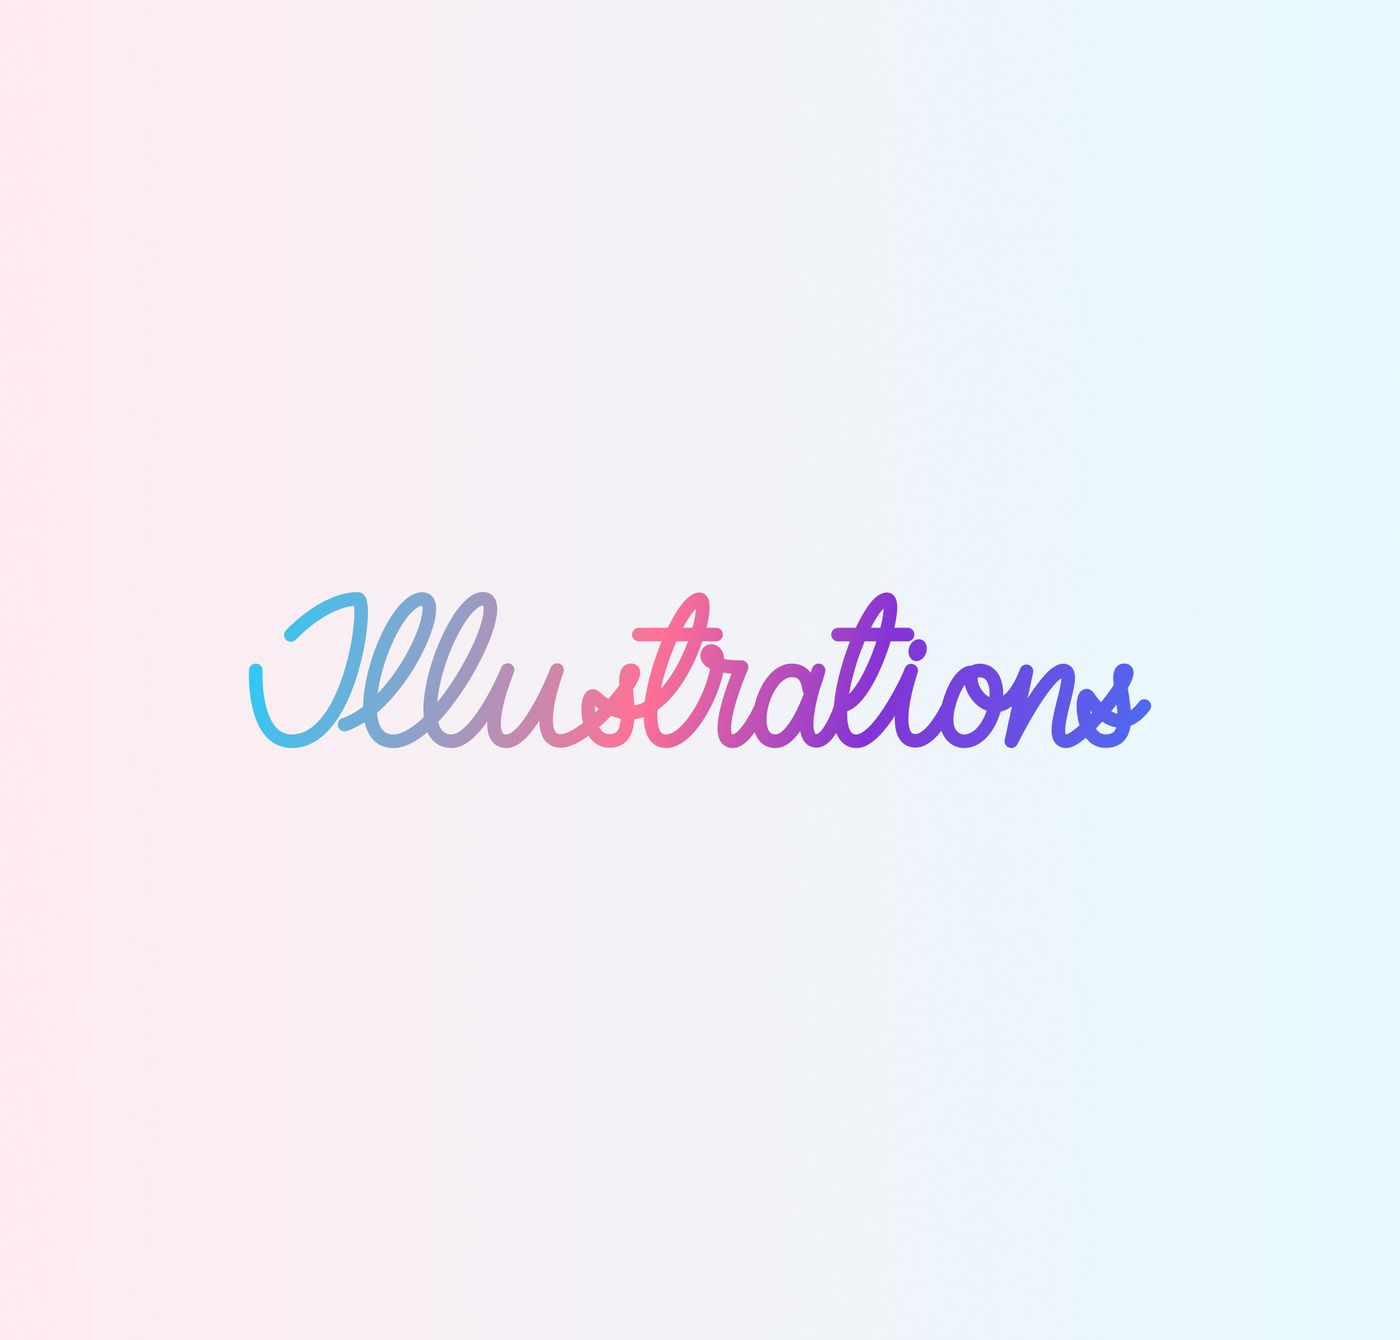
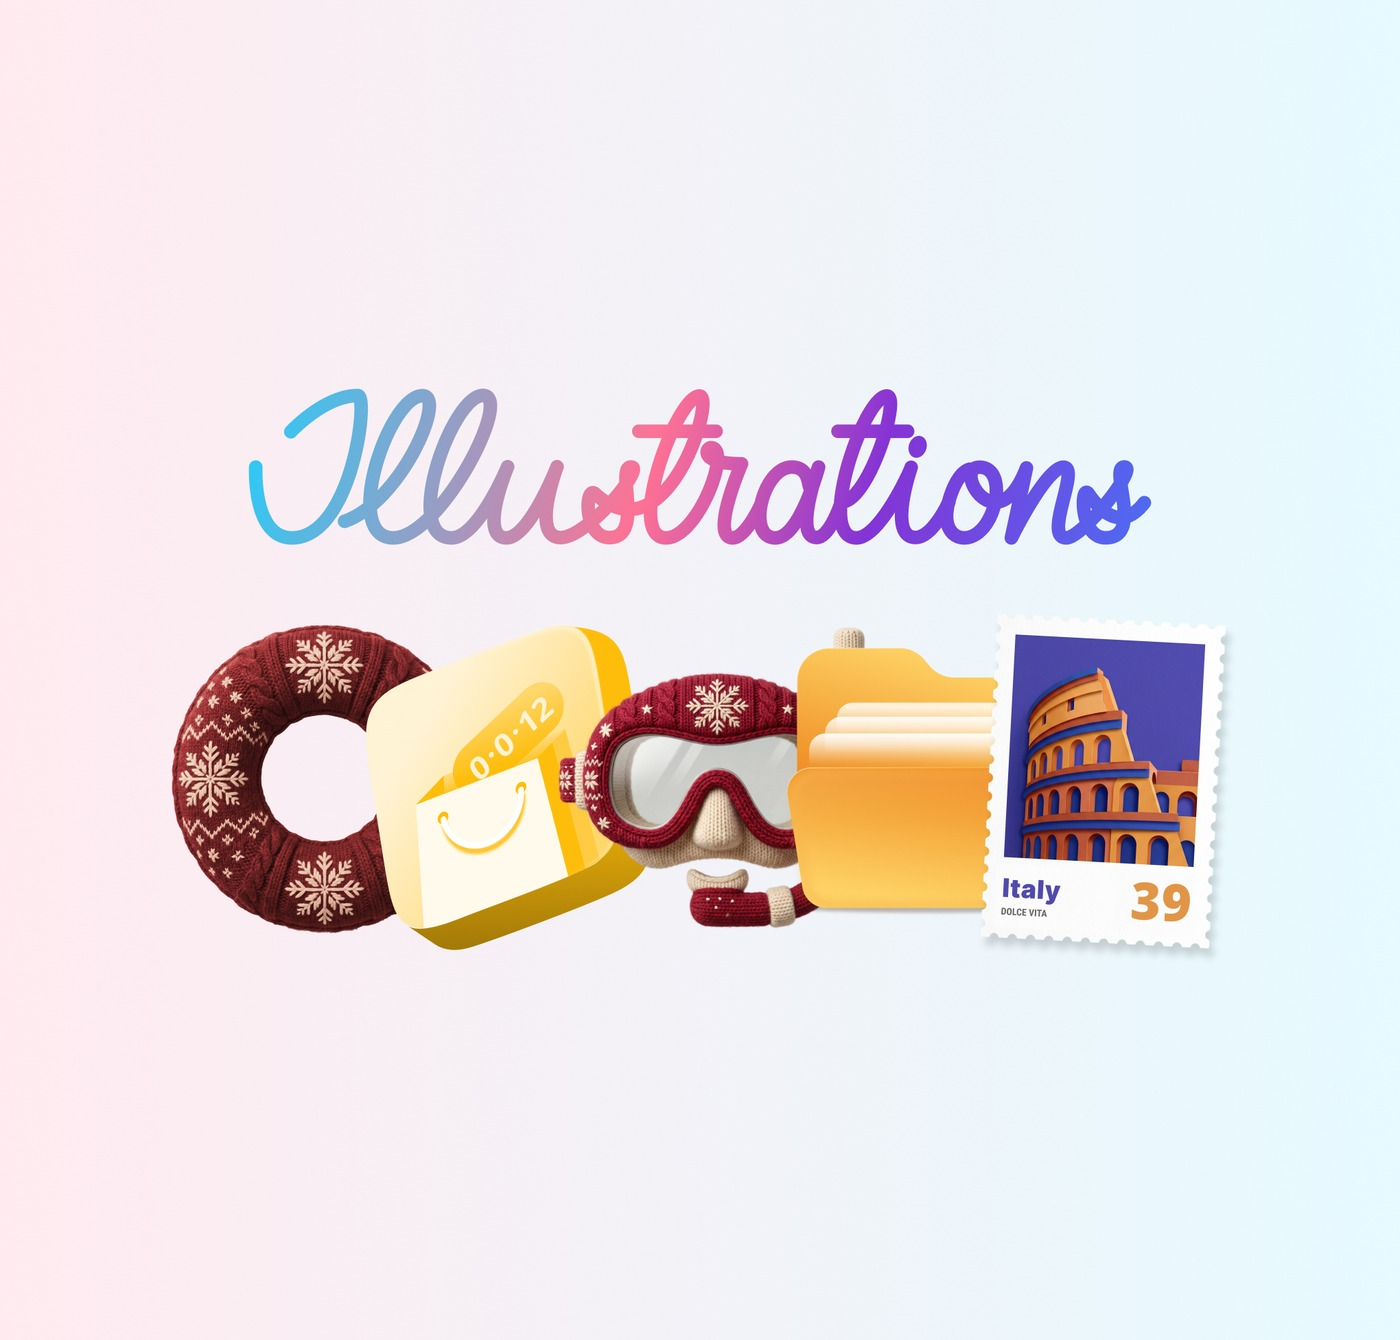
Иллюстрации: обновлена обложка плитки (надпись + иконки) из Figma 3560-32812 (v3)

Changed region(s): [[0.1229, 0.2754, 0.86, 0.7343], [0.1536, 0.3366, 0.1843, 0.3672]]

diff --git a/index.html b/index.html
@@ -121,7 +121,7 @@
         <li class="tile reveal" data-cat="graph">
           <a class="tile__link" href="case.html?id=illustrations" aria-label="Кейс: Иллюстрации">
             <div class="tile__media tile__media--image" data-tone="2">
-              <img src="assets/ill-card.jpg?v=2" alt="Иллюстрации – обложка" loading="lazy" />
+              <img src="assets/ill-card.jpg?v=3" alt="Иллюстрации – обложка" loading="lazy" />
             </div>
             <div class="tile__cap">
               <h3 class="tile__title">Иллюстрации</h3>

diff --git a/projects.js b/projects.js
@@ -263,7 +263,7 @@ window.PROJECTS = {
   "illustrations": {
     title: "Иллюстрации",
     subtitle: "Кастомные иллюстрации и иконки",
-    card: "assets/ill-card.jpg?v=2",
+    card: "assets/ill-card.jpg?v=3",
     cardMeta: "Кастомные иллюстрации и иконки",
     tone: 2,
     hideHero: true,

diff --git a/case.html b/case.html
@@ -46,7 +46,7 @@
   </button>
 
   <script src="https://cdn.jsdelivr.net/npm/lenis@1.1.14/dist/lenis.min.js"></script>
-  <script src="projects.js?v=133"></script>
+  <script src="projects.js?v=134"></script>
   <script src="case.js?v=66"></script>
   <script src="script.js?v=23"></script>
 </body>
